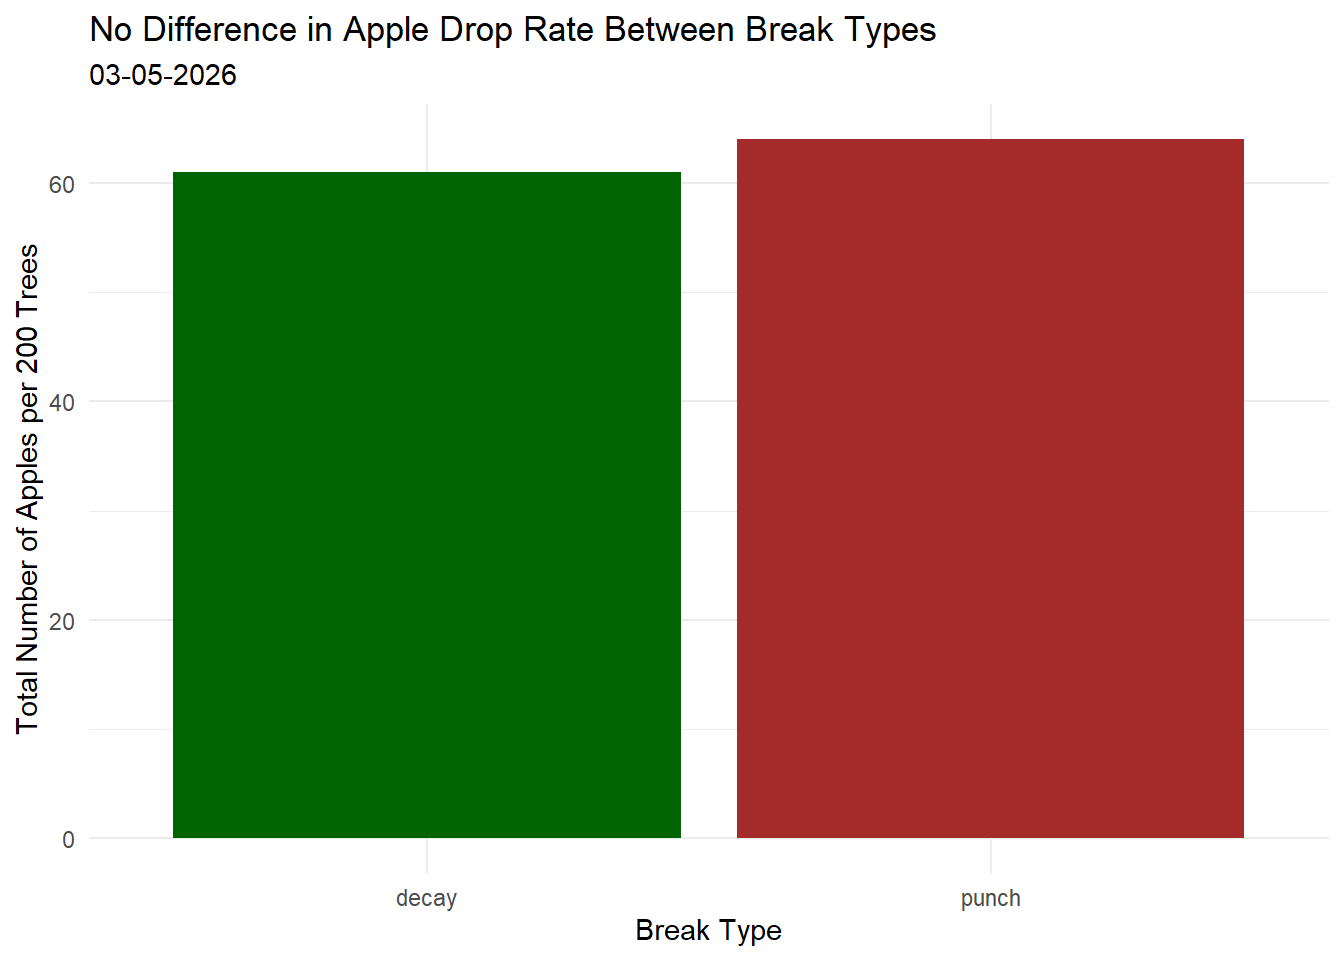
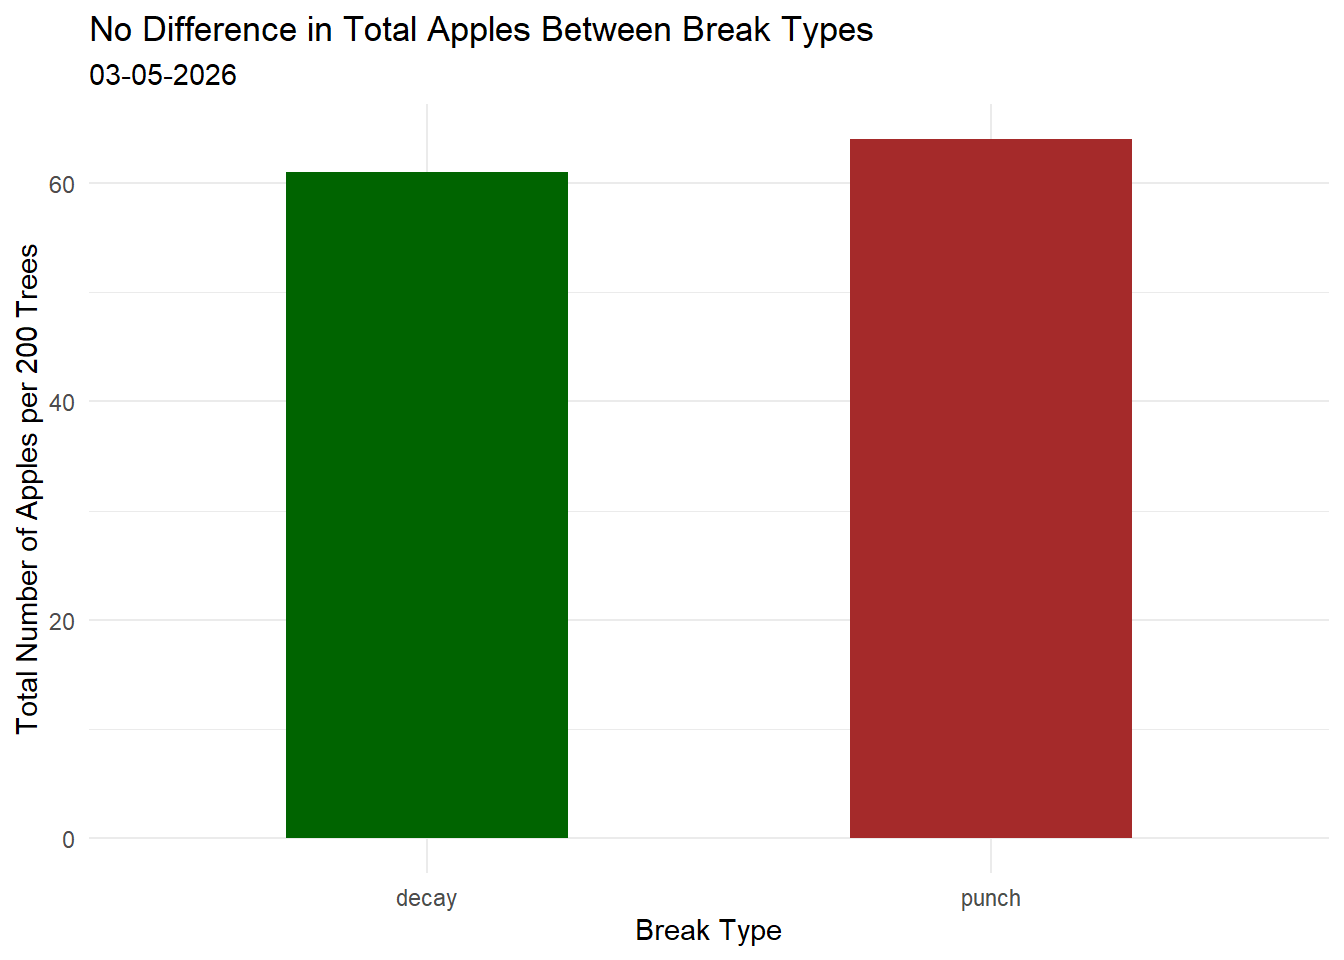
created plots for personal data and added captions

diff --git a/code/Homework 3 193DS.html b/code/Homework 3 193DS.html
@@ -267,9 +267,8 @@ sample estimates:
 <section id="problem-2" class="level1">
 <h1>Problem 2</h1>
 <p>For my personal data experiment, I decided to test the common myth that in Minecraft, allowing the leaves of an oak tree to decay naturally will provide more apples than if you were to punch the leaves by hand. To perform this test, I grew 100 (approximately 5700 leaf blocks) oak trees on a superflat world over a large plot of running water that leads to a hopper attached to a chest to ensure all dropped items are collected. First, I broke all of the leaves by hand and collected the apples. Then, I reloaded the save and broke the logs and allowed the leaves to decay naturally. I repeated these steps in order to collect more data.</p>
-</section>
-<section id="a-plots" class="level1">
-<h1>a) Plots</h1>
+<section id="a-plots" class="level2">
+<h2 class="anchored" data-anchor-id="a-plots">a) Plots</h2>
 <div class="cell">
 <div class="code-copy-outer-scaffold"><div class="sourceCode cell-code" id="cb8"><pre class="sourceCode r code-with-copy"><code class="sourceCode r"><span id="cb8-1"><a href="#cb8-1" aria-hidden="true" tabindex="-1"></a>apple <span class="ot">&lt;-</span> <span class="fu">read_xlsx</span>( <span class="co"># creating personal data frame</span></span>
 <span id="cb8-2"><a href="#cb8-2" aria-hidden="true" tabindex="-1"></a>  <span class="fu">here</span>(</span>
@@ -286,7 +285,7 @@ sample estimates:
 <span id="cb9-2"><a href="#cb9-2" aria-hidden="true" tabindex="-1"></a>       <span class="fu">aes</span>(<span class="at">x =</span> break_type,<span class="co"># setting x and y axis</span></span>
 <span id="cb9-3"><a href="#cb9-3" aria-hidden="true" tabindex="-1"></a>           <span class="at">y =</span> total,</span>
 <span id="cb9-4"><a href="#cb9-4" aria-hidden="true" tabindex="-1"></a>           <span class="at">fill =</span> break_type)) <span class="sc">+</span> <span class="co"># color by break type</span></span>
-<span id="cb9-5"><a href="#cb9-5" aria-hidden="true" tabindex="-1"></a>  <span class="fu">geom_col</span>() <span class="sc">+</span> <span class="co"># column chart</span></span>
+<span id="cb9-5"><a href="#cb9-5" aria-hidden="true" tabindex="-1"></a>  <span class="fu">geom_col</span>(<span class="at">width =</span> <span class="fl">0.5</span>) <span class="sc">+</span> <span class="co"># column chart</span></span>
 <span id="cb9-6"><a href="#cb9-6" aria-hidden="true" tabindex="-1"></a>  <span class="fu">scale_fill_manual</span>( <span class="co"># setting custom colors</span></span>
 <span id="cb9-7"><a href="#cb9-7" aria-hidden="true" tabindex="-1"></a>    <span class="at">values =</span> <span class="fu">c</span>(</span>
 <span id="cb9-8"><a href="#cb9-8" aria-hidden="true" tabindex="-1"></a>      <span class="st">"decay"</span> <span class="ot">=</span> <span class="st">"darkgreen"</span>,</span>
@@ -295,7 +294,7 @@ sample estimates:
 <span id="cb9-11"><a href="#cb9-11" aria-hidden="true" tabindex="-1"></a>  ) <span class="sc">+</span></span>
 <span id="cb9-12"><a href="#cb9-12" aria-hidden="true" tabindex="-1"></a>  <span class="fu">labs</span>(<span class="at">x =</span> <span class="st">"Break Type"</span>, <span class="co"># setting labels</span></span>
 <span id="cb9-13"><a href="#cb9-13" aria-hidden="true" tabindex="-1"></a>       <span class="at">y =</span> <span class="st">"Total Number of Apples per 200 Trees"</span>,</span>
-<span id="cb9-14"><a href="#cb9-14" aria-hidden="true" tabindex="-1"></a>       <span class="at">title =</span> <span class="st">"No Difference in Apple Drop Rate Between Break Types"</span>,</span>
+<span id="cb9-14"><a href="#cb9-14" aria-hidden="true" tabindex="-1"></a>       <span class="at">title =</span> <span class="st">"No Difference in Total Apples Between Break Types"</span>,</span>
 <span id="cb9-15"><a href="#cb9-15" aria-hidden="true" tabindex="-1"></a>       <span class="at">subtitle =</span> <span class="st">"03-05-2026"</span>) <span class="sc">+</span></span>
 <span id="cb9-16"><a href="#cb9-16" aria-hidden="true" tabindex="-1"></a>  <span class="fu">theme_minimal</span>() <span class="sc">+</span> <span class="co"># changing theme</span></span>
 <span id="cb9-17"><a href="#cb9-17" aria-hidden="true" tabindex="-1"></a>  <span class="fu">theme</span>(<span class="at">legend.position =</span> <span class="st">"none"</span>) <span class="co"># removing legend</span></span></code></pre></div><button title="Copy to Clipboard" class="code-copy-button"><i class="bi"></i></button></div>
@@ -307,6 +306,52 @@ sample estimates:
 </div>
 </div>
 </div>
+<div class="cell">
+<div class="code-copy-outer-scaffold"><div class="sourceCode cell-code" id="cb10"><pre class="sourceCode r code-with-copy"><code class="sourceCode r"><span id="cb10-1"><a href="#cb10-1" aria-hidden="true" tabindex="-1"></a>apple_percent <span class="ot">&lt;-</span> apple_total <span class="sc">|&gt;</span> <span class="co"># create new data frame for percentages</span></span>
+<span id="cb10-2"><a href="#cb10-2" aria-hidden="true" tabindex="-1"></a>  <span class="fu">group_by</span>(break_type) <span class="sc">|&gt;</span> </span>
+<span id="cb10-3"><a href="#cb10-3" aria-hidden="true" tabindex="-1"></a>  <span class="fu">mutate</span>(<span class="at">percentage =</span> total <span class="sc">/</span> <span class="dv">11400</span>) <span class="co"># calculate percentage</span></span></code></pre></div><button title="Copy to Clipboard" class="code-copy-button"><i class="bi"></i></button></div>
+</div>
+<div class="cell">
+<div class="code-copy-outer-scaffold"><div class="sourceCode cell-code" id="cb11"><pre class="sourceCode r code-with-copy"><code class="sourceCode r"><span id="cb11-1"><a href="#cb11-1" aria-hidden="true" tabindex="-1"></a><span class="fu">ggplot</span>(<span class="at">data =</span> apple_percent,<span class="co"># create new ggplot with percent data frame</span></span>
+<span id="cb11-2"><a href="#cb11-2" aria-hidden="true" tabindex="-1"></a>       <span class="fu">aes</span>(<span class="at">x =</span> break_type, <span class="co"># set x and y axis</span></span>
+<span id="cb11-3"><a href="#cb11-3" aria-hidden="true" tabindex="-1"></a>           <span class="at">y =</span> percentage,</span>
+<span id="cb11-4"><a href="#cb11-4" aria-hidden="true" tabindex="-1"></a>           <span class="at">fill =</span> break_type)) <span class="sc">+</span> <span class="co"># color by break type</span></span>
+<span id="cb11-5"><a href="#cb11-5" aria-hidden="true" tabindex="-1"></a>  <span class="fu">geom_col</span>(<span class="at">width =</span> <span class="fl">0.5</span>) <span class="sc">+</span> <span class="co"># column chart</span></span>
+<span id="cb11-6"><a href="#cb11-6" aria-hidden="true" tabindex="-1"></a>  <span class="fu">scale_fill_manual</span>( <span class="co"># set custom colors</span></span>
+<span id="cb11-7"><a href="#cb11-7" aria-hidden="true" tabindex="-1"></a>    <span class="at">values =</span> <span class="fu">c</span>(</span>
+<span id="cb11-8"><a href="#cb11-8" aria-hidden="true" tabindex="-1"></a>      <span class="at">decay =</span> <span class="st">"darkseagreen4"</span>,</span>
+<span id="cb11-9"><a href="#cb11-9" aria-hidden="true" tabindex="-1"></a>      <span class="at">punch =</span> <span class="st">"deeppink4"</span></span>
+<span id="cb11-10"><a href="#cb11-10" aria-hidden="true" tabindex="-1"></a>    )</span>
+<span id="cb11-11"><a href="#cb11-11" aria-hidden="true" tabindex="-1"></a>  ) <span class="sc">+</span></span>
+<span id="cb11-12"><a href="#cb11-12" aria-hidden="true" tabindex="-1"></a>  <span class="fu">theme_minimal</span>() <span class="sc">+</span> <span class="co"># change theme</span></span>
+<span id="cb11-13"><a href="#cb11-13" aria-hidden="true" tabindex="-1"></a>  <span class="fu">labs</span>(<span class="at">x =</span> <span class="st">"Break Type"</span>, <span class="co"># set labels</span></span>
+<span id="cb11-14"><a href="#cb11-14" aria-hidden="true" tabindex="-1"></a>       <span class="at">y =</span> <span class="st">"Percent of Apples per Leaf Block"</span>,</span>
+<span id="cb11-15"><a href="#cb11-15" aria-hidden="true" tabindex="-1"></a>       <span class="at">title =</span> <span class="st">"No Difference In Apple Drop Rate Between Break Types"</span>,</span>
+<span id="cb11-16"><a href="#cb11-16" aria-hidden="true" tabindex="-1"></a>       <span class="at">subtitle =</span> <span class="st">"03-05-2026"</span>) <span class="sc">+</span></span>
+<span id="cb11-17"><a href="#cb11-17" aria-hidden="true" tabindex="-1"></a>  <span class="fu">scale_y_continuous</span>(<span class="at">labels =</span> scales<span class="sc">::</span>percent, <span class="co"># change y axis to percentages</span></span>
+<span id="cb11-18"><a href="#cb11-18" aria-hidden="true" tabindex="-1"></a>                     <span class="at">breaks =</span> scales<span class="sc">::</span><span class="fu">pretty_breaks</span>(<span class="at">n =</span><span class="dv">8</span>)) <span class="sc">+</span> <span class="co"># make brakes look nicer</span></span>
+<span id="cb11-19"><a href="#cb11-19" aria-hidden="true" tabindex="-1"></a>  <span class="fu">theme</span>(<span class="at">legend.position =</span> <span class="st">"none"</span>) <span class="sc">+</span>  <span class="co"># remove legend position</span></span>
+<span id="cb11-20"><a href="#cb11-20" aria-hidden="true" tabindex="-1"></a>  <span class="fu">geom_label</span>(<span class="fu">aes</span>(<span class="at">label =</span> <span class="fu">round</span>(percentage <span class="sc">*</span> <span class="dv">100</span>,<span class="dv">3</span>))) <span class="co"># add labels to columns and round to 3 digits</span></span></code></pre></div><button title="Copy to Clipboard" class="code-copy-button"><i class="bi"></i></button></div>
+<div class="cell-output-display">
+<div>
+<figure class="figure">
+<p><img src="Homework-3-193DS_files/figure-html/unnamed-chunk-2-1.png" class="img-fluid figure-img" width="672"></p>
+</figure>
+</div>
+</div>
+</div>
+</section>
+<section id="b-caption" class="level2">
+<h2 class="anchored" data-anchor-id="b-caption">b) Caption</h2>
+<p>Plot 1: Compares the total number of apples that dropped from decayed leaves to punched leaves. In total, the decayed leaves dropped 61 apples while the punched leaves dropped 63 apples per 200 trees or approximately 11400 leaves.</p>
+<p>Plot 2: Compares the apple drop rate percentage between decayed leaves and punched leaves. Decayed leaves had a drop rate of 0.535% while punched leaves had a drop rate of 0.561</p>
+</section>
+</section>
+<section id="problem-3" class="level1">
+<h1>Problem 3</h1>
+<section id="a-what-visualization-could-look-like" class="level2">
+<h2 class="anchored" data-anchor-id="a-what-visualization-could-look-like">a) What visualization could look like</h2>
+</section>
 </section>
 
 </main>
